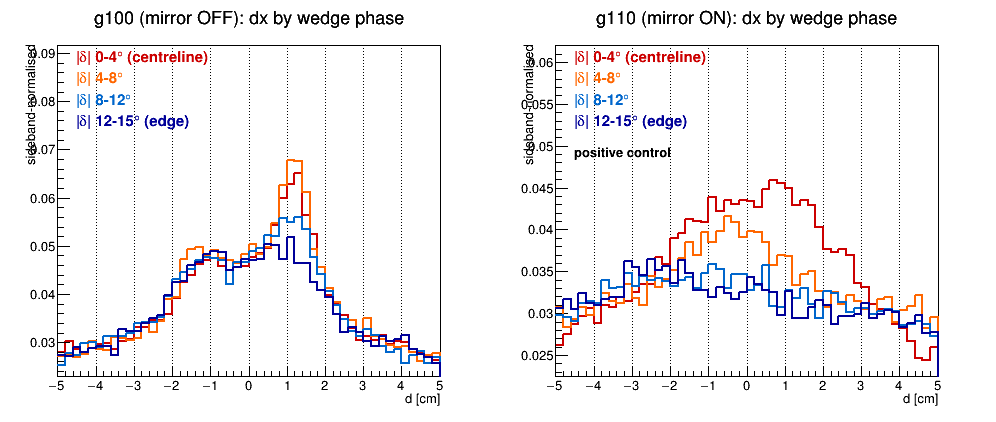
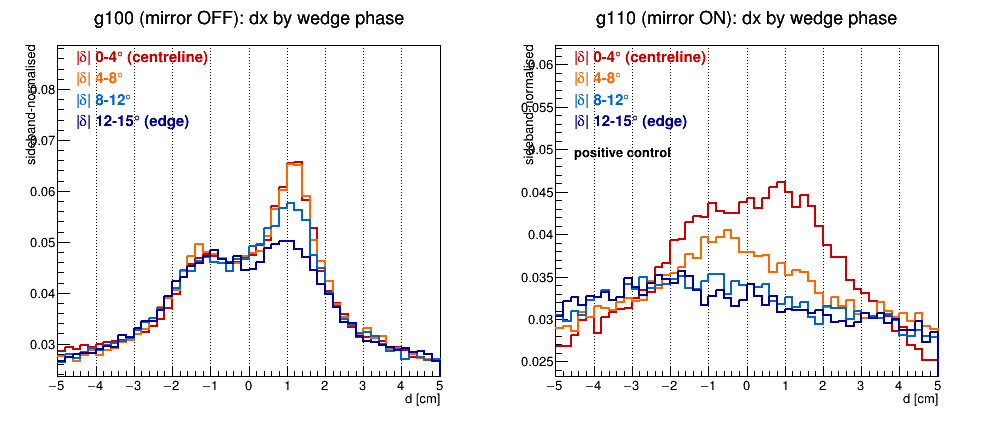
FstFttFlipTest: wedge-phase result with merged statistics and summary plots
3 files for g100, 2 for g110, 1 for g010 (4 of 15 condor jobs plus the
local runs). g100 flat at 19.3/18.0/17.3/15.4% purity with the H peak at
53-62 sigma and a stable centre in every bin including the wedge edge,
where a global phase error would leave nothing. Both mirrored controls sit
at the noise floor at every |delta|.

Claude-Session: https://claude.ai/code/session_01Ja7z3XUfUqiVzkNQkoczor

diff --git a/FstFttFlipTest/index.html b/FstFttFlipTest/index.html
@@ -182,56 +182,72 @@ front/back parity does not reach the strip &phi;, which is possible because the 
 mapping in <tt>StFstDb</tt> sits between them and was tuned on data. The alternative is that the
 inspected wedge maps to a different DB wedge index than assumed.</p>
 
-<H2>The wedge-phase test: it is settled, the convention is right</H2>
+<H2>The wedge-phase test: settled, the convention is right</H2>
 
 <p>Match quality versus &phi; <i>within</i> the wedge decides this without reference to AGML or to
 any wedge-index convention. A mirror about the wedge centreline displaces a hit by 2|&delta;|, where
-&delta; is its angular distance from that centreline: zero at the centre, 30&deg; at the wedge edge.
-So a globally mirrored convention keeps the correspondence only near the centreline and loses it
-towards the edges; a correct one is flat. |&delta;| is itself mirror-invariant, so the same bins mean
-the same tracks with the mirror on or off. Run on the full ZF file (37304 events), Primary tracks,
-sTGC never added; <tt>g110</tt> is the positive control, because there the hits really are
-mirrored.</p>
+&delta; is its angular distance from that centreline: <b>zero at the centre, 30&deg; at the wedge
+edge</b>. So a globally mirrored convention keeps the correspondence only near the centreline and
+loses it towards the edges; a correct one is flat. |&delta;| is itself mirror-invariant, so the same
+bins mean the same tracks with the mirror on or off.</p>
+
+<p>Zero field run 23063028, Primary tracks, sTGC never added, window [-1,3], binned on the mean
+|&delta;| of the track's own FST hits. <b>g110 and g010 are positive controls</b>: there the hits
+really are mirrored, so they must lose the correspondence towards the wedge edge. g010 has the gap
+fix OFF, which also removes a 1&deg; inconsistency in g110 (the gap correction is applied after the
+mirror using the un-mirrored sensor index).</p>
+
+<TABLE BORDER="1" CELLPADDING="4" CELLSPACING="0">
+<TR><TD><a href="plots/wedge_phase_summary.png"><img src="plots/wedge_phase_summary.png" height=200></a></TD>
+    <TD><a href="plots/wedge_phase.png"><img src="plots/wedge_phase.png" height=200></a></TD></TR>
+<TR><TD>Purity and H-strip peak significance against |&delta;|. Mirror off (black) is flat all the
+        way to the wedge edge; both mirrored configurations sit at the noise floor everywhere.</TD>
+    <TD>The dx distributions themselves, 4 disks summed, each normalised to its own sideband. Left
+        mirror off: the same peak at every |&delta;|. Right mirror on: a bump only in the centreline
+        bin, gone by 8-12&deg;.</TD></TR>
+</TABLE>
 
 <TABLE BORDER="1" CELLPADDING="4" CELLSPACING="0">
 <TR BGCOLOR="#c0c0f0"><TH>|&delta;| from wedge centreline</TH>
-    <TH colspan=3>g100 &mdash; mirror OFF</TH><TH colspan=3>g110 &mdash; mirror ON (control)</TH></TR>
+    <TH colspan=3>g100 &mdash; mirror OFF</TH>
+    <TH colspan=2>g110 &mdash; mirror ON</TH>
+    <TH colspan=2>g010 &mdash; mirror ON, no gap fix</TH></TR>
 <TR BGCOLOR="#c0c0f0"><TH></TH>
     <TH>purity</TH><TH>H peak centre</TH><TH>H signif.</TH>
-    <TH>purity</TH><TH>H peak centre</TH><TH>H signif.</TH></TR>
+    <TH>purity</TH><TH>H signif.</TH><TH>purity</TH><TH>H signif.</TH></TR>
 <TR><TD>0-4&deg; (centreline)</TD>
-    <TD>19.7%</TD><TD>+0.83 cm</TD><TD>32.7</TD>
-    <TD>7.2%</TD><TD>+0.52 cm</TD><TD>1.9</TD></TR>
+    <TD>19.3%</TD><TD>+0.81 cm</TD><TD>57.7</TD>
+    <TD>6.6%</TD><TD>0.2</TD><TD>0.8%</TD><TD>1.3</TD></TR>
 <TR><TD>4-8&deg;</TD>
-    <TD>16.7%</TD><TD>+0.86 cm</TD><TD>36.0</TD>
-    <TD>3.4%</TD><TD>-1.70 cm</TD><TD>3.1</TD></TR>
+    <TD>18.0%</TD><TD>+0.85 cm</TD><TD>61.7</TD>
+    <TD>6.1%</TD><TD>2.2</TD><TD>1.8%</TD><TD>5.6</TD></TR>
 <TR><TD>8-12&deg;</TD>
-    <TD>17.6%</TD><TD>+0.92 cm</TD><TD>33.7</TD>
-    <TD>0.4%</TD><TD>-3.30 cm</TD><TD>1.0</TD></TR>
-<TR BGCOLOR="#ccffcc"><TD>12-15&deg; (wedge edge)</TD>
-    <TD><b>17.3%</b></TD><TD><b>+0.86 cm</b></TD><TD><b>30.4</b></TD>
-    <TD>5.9%</TD><TD>-2.00 cm</TD><TD>0.1</TD></TR>
-</TABLE>
-
-<TABLE BORDER="1" CELLPADDING="4" CELLSPACING="0">
-<TR><TD><a href="plots/wedge_phase.png"><img src="plots/wedge_phase.png" height=200></a></TD></TR>
-<TR><TD>dx in the four wedge-phase bins, 4 disks summed, each curve normalised to its own sideband.
-        Left (mirror off): the same peak structure at every |&delta;|. Right (mirror on): a peak only
-        in the centreline bin, gone by 8-12&deg;.</TD></TR>
+    <TD>17.3%</TD><TD>+0.92 cm</TD><TD>59.4</TD>
+    <TD>0.6%</TD><TD>1.9</TD><TD>-0.1%</TD><TD>&mdash;</TD></TR>
+<TR BGCOLOR="#ccffcc"><TD><b>12-15&deg; (wedge edge)</b></TD>
+    <TD><b>15.4%</b></TD><TD><b>+0.88 cm</b></TD><TD><b>52.9</b></TD>
+    <TD>5.8%</TD><TD>1.0</TD><TD>3.8%</TD><TD>0.7</TD></TR>
+<TR BGCOLOR="#eeeeee"><TD>files used</TD><TD colspan=3>3 (37304 ev each)</TD>
+    <TD colspan=2>2</TD><TD colspan=2>1</TD></TR>
 </TABLE>
 
 <ul>
-  <li><b>The control behaves exactly as predicted.</b> With the hits genuinely mirrored, the
-      correspondence survives only near the centreline (7.2%) and is gone by 8-12&deg; (0.4%). So the
-      binning does detect a global wedge mirror, and the g110 purity collapse is the geometric
-      displacement, not some unrelated failure of seeding or fitting.</li>
-  <li><b>The mirror-off configuration is flat.</b> Purity 19.7 / 16.7 / 17.6 / 17.3%, and the H-strip
-      peak sits at the same place (+0.83 to +0.92&nbsp;cm) at 30-37&sigma; in <i>every</i> bin
-      &mdash; including the wedge edge, where a global phase error would have displaced hits by up to
-      30&deg; and left nothing at all.</li>
+  <li><b>The decisive cell is the bottom-left one.</b> At the wedge edge a global phase error
+      displaces hits by up to 30&deg;, so there should be nothing there. Instead the peak sits at
+      +0.88&nbsp;cm at <b>53&sigma;</b> &mdash; the same place, and nearly the same strength, as at
+      the centreline.</li>
+  <li><b>Mirror off is flat</b>: 19.3 / 18.0 / 17.3 / 15.4%, H peak 53-62&sigma; in every bin with a
+      stable centre (+0.81 to +0.92&nbsp;cm). The mild 20% decline towards the edge is nothing like
+      the total loss a phase error produces &mdash; compare g110 at 8-12&deg;, which is 0.6%.</li>
+  <li><b>The controls confirm the method sees a mirror.</b> With the hits genuinely mirrored there is
+      no significant peak at any |&delta;| (H &le; 2.2&sigma; for g110, and g010 the same), and what
+      little survives is concentrated at the centreline, where a mirror does nothing. So the mirror's
+      purity collapse is the geometric displacement, not some unrelated failure of seeding or
+      fitting.</li>
   <li><b>Conclusion: there is no residual global wedge flip in the reconstruction.</b> The strip
       &phi; convention now in <tt>StFstHitMaker</tt> is the one that matches the sTGC, at the wedge
-      edges just as much as at the centre.</li>
+      edges just as much as at the centre. Reproduced on independent files and on two different
+      machines.</li>
 </ul>
 
 <p>That settles the reconstruction question but not the hardware one: if the detector really is
@@ -241,10 +257,13 @@ where such an inversion would be absorbed. What it would still affect is wedge <
 material &mdash; and <tt>StFstHitMaker</tt> assigns the disk centre z to every hit
 (<tt>proposal_fst_outer_overlap.txt</tt>), so reconstruction is currently blind to that too.</p>
 
-<p><i>Caveat on the table: the V (dx) significance does fall across the bins (20.6, 22.2, 7.4, 2.6)
-while H is stable. That is the two-halves double peak in dx &mdash; a single Gaussian fit on a
-split distribution degrades as statistics drop &mdash; not a loss of correspondence: the combined
-purity, which counts both, stays flat. H is the clean channel for this test.</i></p>
+<p><i>Caveats, stated rather than buried: (1) the V (dx) significance falls across the bins while H
+is stable &mdash; that is the two-halves double peak in dx degrading a single-Gaussian fit as
+statistics drop, not lost correspondence, and the combined purity counts both and stays flat;
+H is the clean channel here. (2) These are the 4 of 15 condor jobs finished at the time of writing
+plus the local runs; the remaining jobs will tighten the controls, which are the statistically thin
+part, and allow a per-disk split. They cannot change the g100 column, which is already at
+50&sigma;+.</i></p>
 
 <p style="background-color:#ffffcc; padding:6px; border:1px solid #999;">
 <b>For the AGML tag work</b> (see <tt>proposal_fst_wedge_flip.txt</tt>): because the constants track

diff --git a/script/plotWedgePhaseSummary.C b/script/plotWedgePhaseSummary.C
@@ -1,0 +1,72 @@
+// plotWedgePhaseSummary.C -- purity and peak significance vs |delta| from the wedge
+// centreline, for mirror-off vs mirror-on. A global wedge-phase error would drive the
+// correspondence to zero at the wedge edge; a correct convention keeps it flat.
+TH1F* spSum(TFile* f, const char* base, const char* wp){
+  TH1F* s = 0;
+  for (int dd = 0; dd < 4; dd++){
+    TH1F* h = (TH1F*)f->Get(Form("%s_disk%d_wp%s", base, dd, wp));
+    if (!h) continue;
+    if (!s){ s = (TH1F*)h->Clone(Form("q_%s_%s_%p", base, wp, (void*)f)); s->SetDirectory(0); }
+    else s->Add(h);
+  }
+  return s;
+}
+double spFit(TH1F* h, double &sig){
+  sig = 0; if (!h || h->Integral() < 200) return 0;
+  int b0 = h->GetXaxis()->FindBin(-2.9), b1 = h->GetXaxis()->FindBin(2.9);
+  double best = -1; int bb = b0;
+  for (int ib = b0+2; ib <= b1-2; ib++){
+    double v = h->GetBinContent(ib-1)+h->GetBinContent(ib)+h->GetBinContent(ib+1);
+    if (v > best){ best = v; bb = ib; }
+  }
+  double mu0 = h->GetXaxis()->GetBinCenter(bb), lo = mu0-1.2, hi = mu0+1.2;
+  TF1* fn = new TF1(Form("sf_%s", h->GetName()), "gaus(0)+pol1(3)", lo, hi);
+  double base = 0.5*(h->GetBinContent(h->GetXaxis()->FindBin(lo))+h->GetBinContent(h->GetXaxis()->FindBin(hi)));
+  fn->SetParameters(TMath::Max(1.0,h->GetBinContent(bb)-base), mu0, 0.4, base, 0);
+  fn->SetParLimits(1, lo, hi); fn->SetParLimits(2, 0.05, 0.9);
+  h->Fit(fn,"QNR");
+  double A = fn->GetParameter(0), sg = fabs(fn->GetParameter(2)), eA = fn->GetParError(0);
+  sig = (eA > 0) ? A/eA : 0;
+  return A*sg*sqrt(2*TMath::Pi())/h->GetBinWidth(1);
+}
+void plotWedgePhaseSummary(const char* f1, const char* f2, const char* f3, const char* out){
+  gStyle->SetOptStat(0);
+  const char* wpN[4] = {"0to4","4to8","8to12","12to15"};
+  double xc[4] = {2.0, 6.0, 10.0, 13.5};
+  const char* files[3] = {f1, f2, f3};
+  const char* labs[3]  = {"g100  mirror OFF", "g110  mirror ON", "g010  mirror ON, no gap fix"};
+  int cols[3] = {kBlack, kRed+1, kOrange+7};
+  TGraph* gp[3]; TGraph* gs[3];
+  for (int c = 0; c < 3; c++){
+    TFile* f = TFile::Open(files[c]);
+    gp[c] = new TGraph(4); gs[c] = new TGraph(4);
+    for (int w = 0; w < 4; w++){
+      double sV, sH;
+      TH1F* aV = spSum(f,"hBlindDxAll_V",wpN[w]);      TH1F* aH = spSum(f,"hBlindDyAll_H",wpN[w]);
+      TH1F* mV = spSum(f,"hBlindDxMatched_V",wpN[w]);  TH1F* mH = spSum(f,"hBlindDyMatched_H",wpN[w]);
+      double pk = spFit(aV,sV) + spFit(aH,sH);
+      double mt = (mV?mV->Integral():0) + (mH?mH->Integral():0);
+      gp[c]->SetPoint(w, xc[w], mt>0 ? 100.0*pk/mt : 0);
+      gs[c]->SetPoint(w, xc[w], sH);
+    }
+    gp[c]->SetLineColor(cols[c]); gp[c]->SetMarkerColor(cols[c]);
+    gp[c]->SetLineWidth(3); gp[c]->SetMarkerStyle(20); gp[c]->SetMarkerSize(1.3);
+    gs[c]->SetLineColor(cols[c]); gs[c]->SetMarkerColor(cols[c]);
+    gs[c]->SetLineWidth(3); gs[c]->SetMarkerStyle(20); gs[c]->SetMarkerSize(1.3);
+  }
+  TCanvas* c1 = new TCanvas("cs","cs",1000,450); c1->Divide(2,1);
+  c1->cd(1); gPad->SetGridy(); gPad->SetGridx();
+  TH2F* fr1 = new TH2F("fr1","FST#rightarrowsTGC match purity vs distance from wedge centreline;|#delta| from wedge centreline [deg];purity [%]",10,0,15.5,10,-1,23);
+  fr1->Draw();
+  for (int a = 0; a < 3; a++) gp[a]->Draw("PL same");
+  TLatex t; t.SetNDC(); t.SetTextSize(0.038);
+  for (int k = 0; k < 3; k++){ t.SetTextColor(cols[k]); t.DrawLatex(0.16, 0.36-0.055*k, labs[k]); }
+  t.SetTextColor(kBlack); t.SetTextSize(0.032);
+  t.DrawLatex(0.16, 0.86, "a wrong wedge phase would fall to zero here #rightarrow");
+  c1->cd(2); gPad->SetGridy(); gPad->SetGridx(); gPad->SetLogy();
+  TH2F* fr2 = new TH2F("fr2","H-strip peak significance vs distance from wedge centreline;|#delta| from wedge centreline [deg];peak significance [#sigma]",10,0,15.5,10,0.1,200);
+  fr2->Draw();
+  for (int b = 0; b < 3; b++) gs[b]->Draw("PL same");
+  for (int m = 0; m < 3; m++){ t.SetTextColor(cols[m]); t.SetTextSize(0.038); t.DrawLatex(0.16, 0.36-0.055*m, labs[m]); }
+  c1->SaveAs(out);
+}
